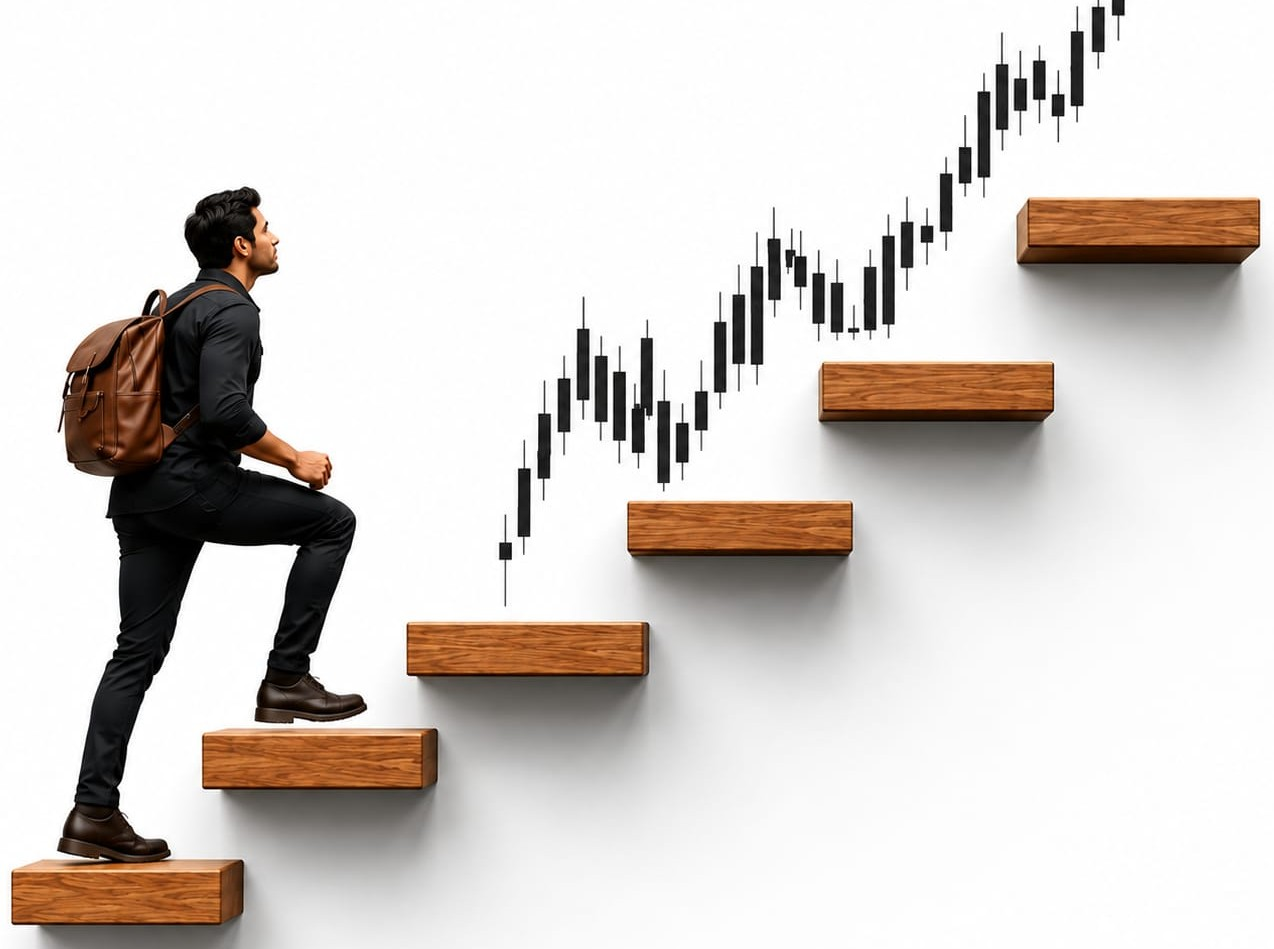
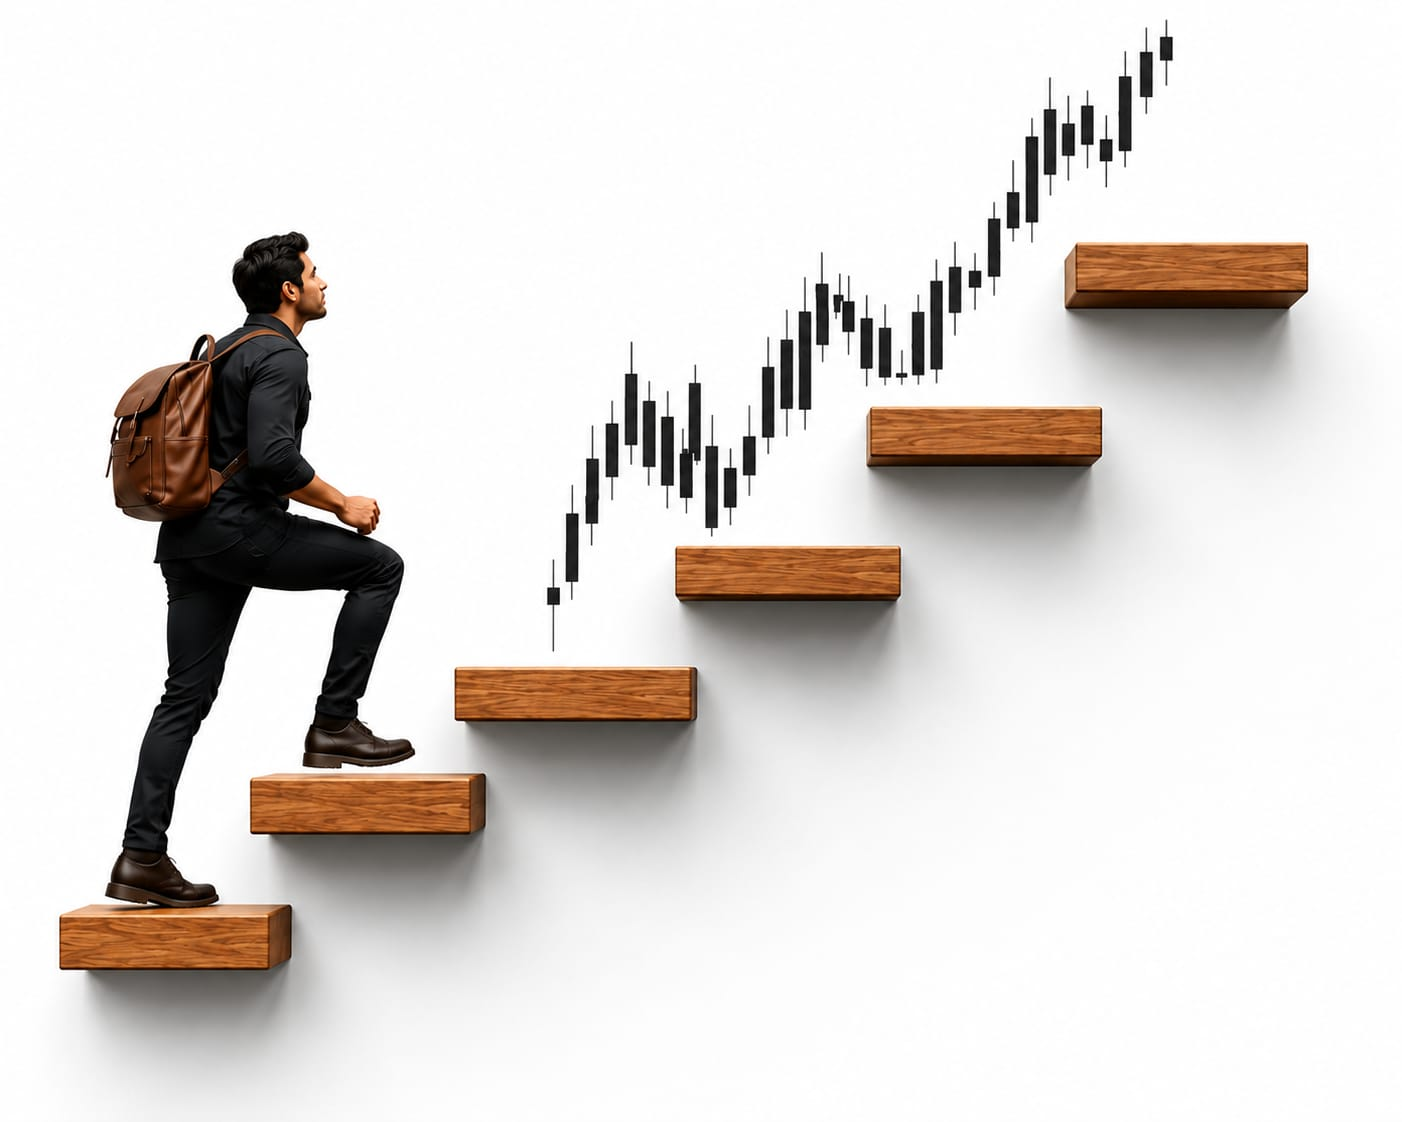
changes commited

Changed region(s): [[0.0, 0.0, 1.0, 1.0]]

diff --git a/index.html b/index.html
@@ -385,7 +385,7 @@
                     <div class="plan-badge most-popular">Most Popular</div>
                     <!-- <h3><s>40 Days Session</s></h3> -->
                     <h1>49K <span>(INR)</span></h1>
-                    <p class="sub highlight-sub">20 days live market trading+<br>Deeper course lesson</p>
+                    <p class="sub highlight-sub">40 days live market trading+<br>Deeper course lesson</p>
                     <ul>
                         <li>Daily live market session for 40 days</li>
                         <li>Focus: F&O, Forex, Nifty, Bank Nifty and Gold</li>

diff --git a/style.css b/style.css
@@ -785,7 +785,7 @@ p {
     animation: slideInUp 0.9s ease-out 0.2s both;
     font-size: 18px;
     font-weight: normal;
-}
+}   
 
 .para p {
     color: orangered;
